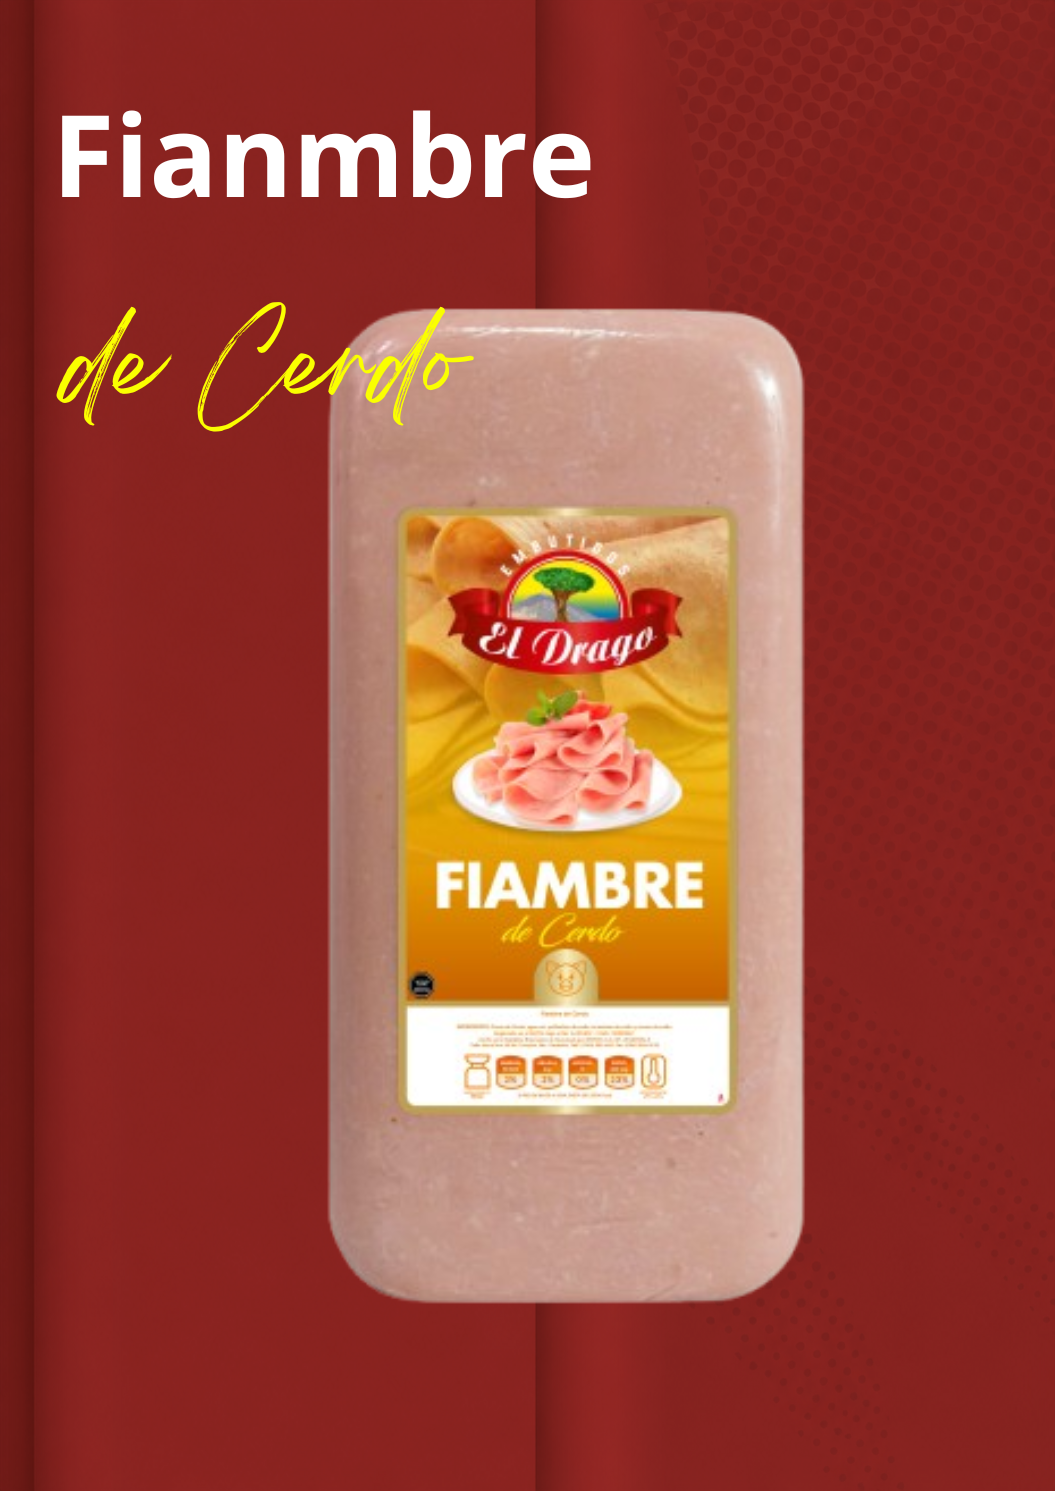
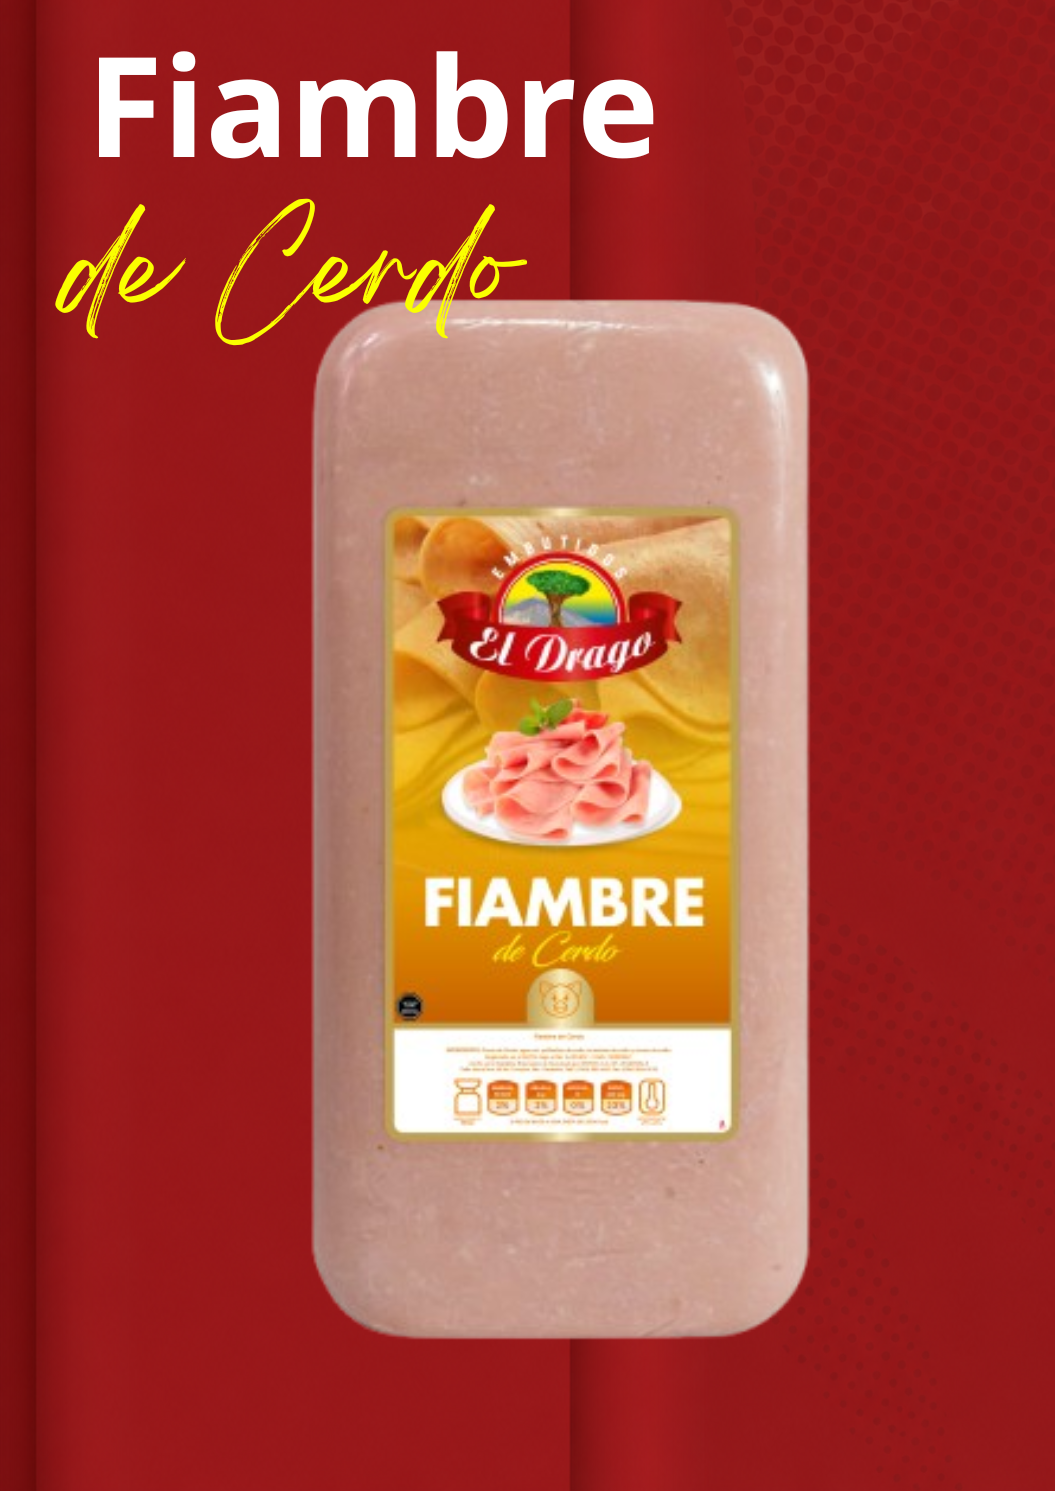
arreglo en seccion productos

diff --git a/src/components/ProductCarousel.tsx b/src/components/ProductCarousel.tsx
@@ -138,27 +138,19 @@ const ProductCarousel = ({
               className="group relative flex flex-col h-full w-full cursor-pointer items-center p-6 md:p-8"
             >
               {/* PRODUCT IMAGE CONTAINER (Taller & Slimmer aspect ratio to prevent side cropping) */}
-              <div className="w-full aspect-[2/3] relative rounded-[1.5rem] md:rounded-[2.25rem] overflow-hidden bg-white/5 border border-white/10 group-hover:border-primary/20 transition-colors duration-500 mx-auto shadow-sm">
-                <motion.img
+              <motion.div
+                className="inline-flex items-center justify-center relative rounded-[1.5rem] md:rounded-[2.25rem] overflow-hidden bg-white/5 border border-white/10 transition-colors duration-500 mx-auto shadow-sm"
+                initial={{ scale: 1.02 }}
+                animate={{ scale: 1 }}
+                whileHover={{ scale: 1.05 }}
+                transition={{ duration: 0.6, ease: [0.22, 1, 0.36, 1] }}
+              >
+                <img
                   src={currentProduct.image}
                   alt={currentProduct.name}
-                  initial={{ scale: 1.05 }}
-                  animate={{ scale: 1 }}
-                  transition={{
-                    duration: 0.9,
-                    ease: [0.22, 1, 0.36, 1],
-                  }}
-                  className="
-                    h-full
-                    w-full
-                    object-cover
-                    transition-transform
-                    duration-700
-                    group-hover:scale-[1.05]
-                    will-change-transform
-                  "
+                  className="max-w-full max-h-[60vh] w-auto h-auto object-contain block"
                 />
-              </div>
+              </motion.div>
 
               {/* PRODUCT INFO - FIXED HEIGHT FOR CONSISTENCY */}
               <div className="w-full pt-8 pb-4 text-center min-h-[140px] md:min-h-[180px] flex flex-col justify-start">